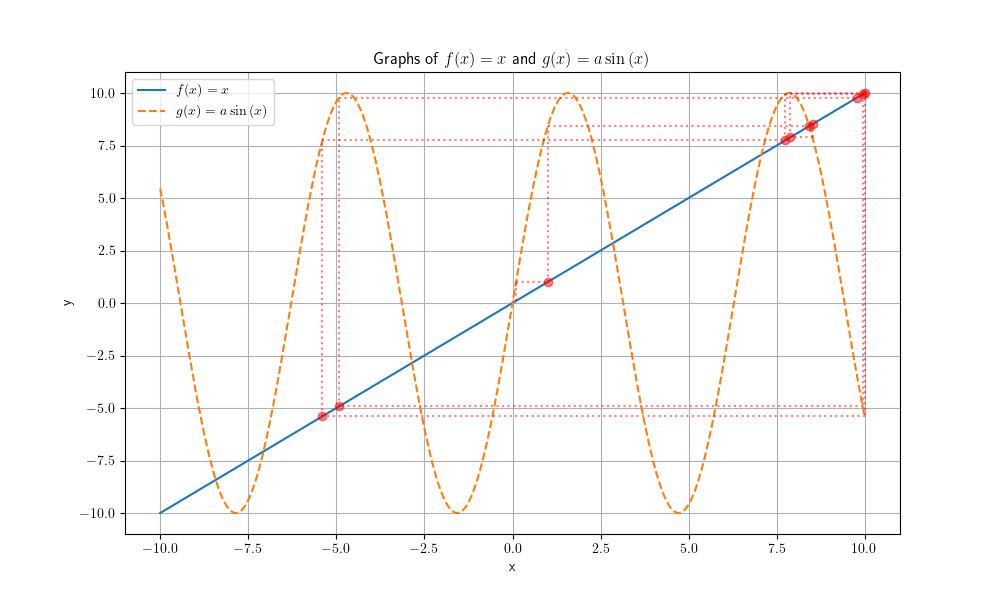
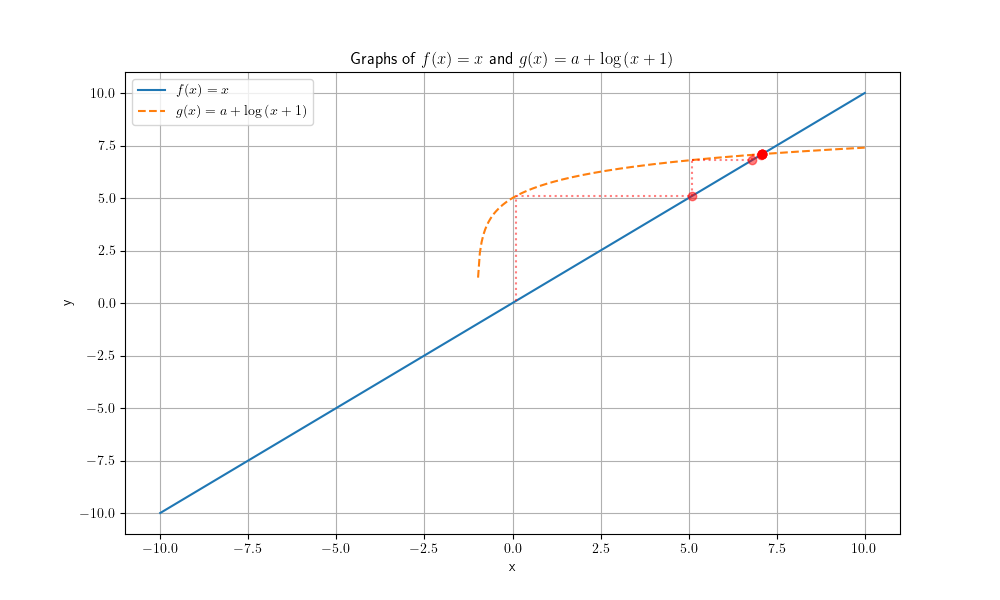
selected first example

diff --git a/NonlinearEquation/solve.py b/NonlinearEquation/solve.py
@@ -26,10 +26,10 @@ x = symbols('x')
 a = symbols('a')
 
 # x - a = ln(1 + x)
-# sym_function_simple = a + log(1 + x)
+sym_function_simple = a + log(1 + x)
 
-# sym_function_newton = a + log(1 + x) - x
-# sym_function_newton_prime = diff(sym_function_newton, x)  # Производная функции
+sym_function_newton = a + log(1 + x) - x
+sym_function_newton_prime = diff(sym_function_newton, x)  # Производная функции
 
 # x = e^(x - a) - 1
 # sym_function_simple = exp(x - a) - 1
@@ -38,12 +38,10 @@ a = symbols('a')
 # sym_function_newton_prime = diff(sym_function_newton, x)  # Производная функции
 
 # x = a sin(x)
-sym_function_simple = a * sin(x);
+# sym_function_simple = a * sin(x);
 
-sym_function_newton = a * sin(x) - x
-sym_function_newton_prime = diff(sym_function_newton, x)  # Производная функции
-
-# x = arcsin(x / l)
+# sym_function_newton = a * sin(x) - x
+# sym_function_newton_prime = diff(sym_function_newton, x)  # Производная функции
 
 # Превращение символьных функций в численные функции
 func_simple = lambdify([x, a], sym_function_simple)
@@ -51,22 +49,22 @@ func_simple = lambdify([x, a], sym_function_simple)
 func_newton = lambdify([x, a], sym_function_newton)
 func_newton_prime = lambdify([x, a], sym_function_newton_prime)
 
-a_val = 10
+a_val = 5
 x0 = 0.1
 
 simple_iter_values = simple_iteration(func_simple, a_val, x0)
 print("simple: " + str(simple_iter_values[-1]))
 
-for i in range(0, 10, 1):
-    x0 = pi / 4 + (pi * i)
-    newtons_values = newton_method(func_newton, func_newton_prime, a_val, x0)
-    if (abs(newtons_values[-1] - newtons_values[-2]) > 0.1):
-        break
-    print(f"x={round(x0, 2)}: newton: {newtons_values[-1]}")
-    print(f"x={round(-x0, 2)}: newton: {-newtons_values[-1]}")
+# for i in range(0, 10, 1):
+#     x0 = pi / 4 + (pi * i)
+#     newtons_values = newton_method(func_newton, func_newton_prime, a_val, x0)
+#     if (abs(newtons_values[-1] - newtons_values[-2]) > 0.1):
+#         break
+#     print(f"x={round(x0, 2)}: newton: {newtons_values[-1]}")
+#     print(f"x={round(-x0, 2)}: newton: {-newtons_values[-1]}")
 
-# newtons_values = newton_method(func_newton, func_newton_prime, a_val, x0)
-# print("newton: " + str(newtons_values[-1]))
+newtons_values = newton_method(func_newton, func_newton_prime, a_val, x0)
+print("newton: " + str(newtons_values[-1]))
 
 func_simple_str = printing.latex(sym_function_simple)
 func_newton_str = printing.latex(sym_function_newton)
